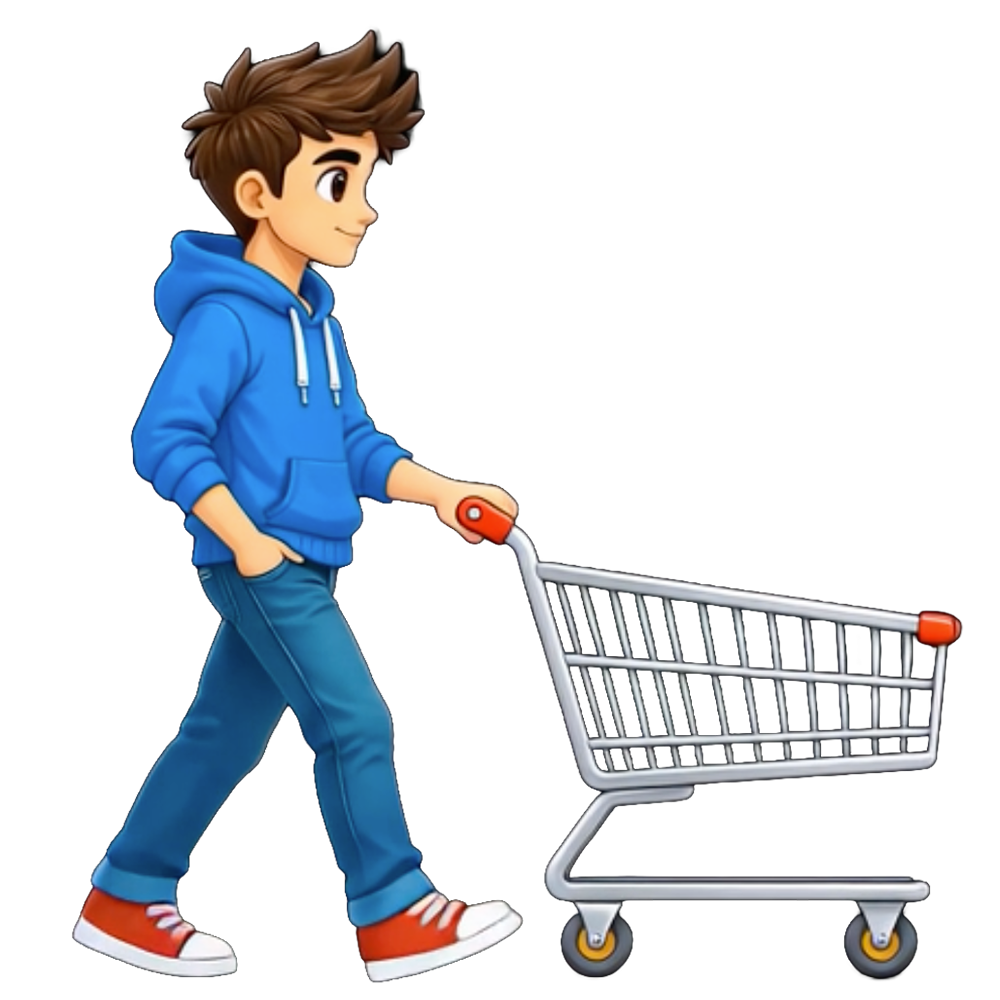
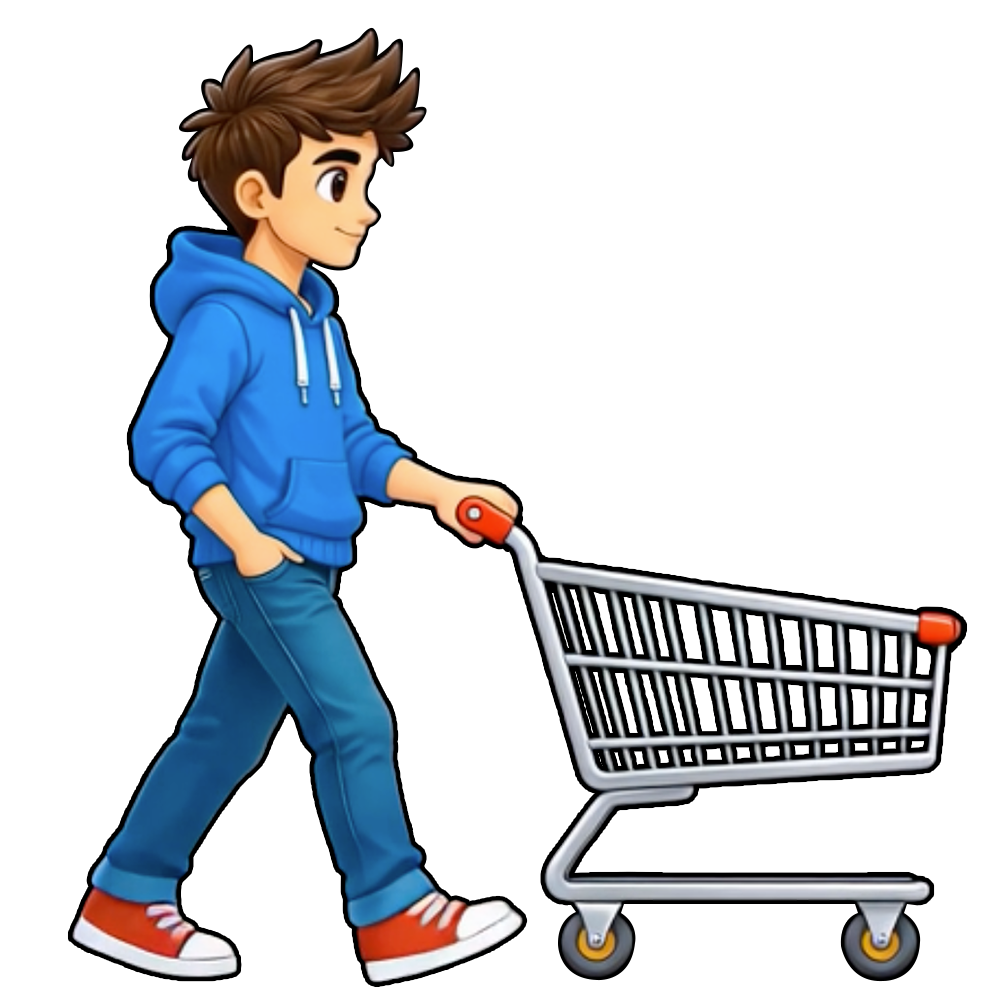
Update character assets and refine animation settings
- Replaced character PNG assets for improved visual quality.
- Adjusted walking animation settings in characterAssets.js to ensure smoother transitions by disabling frame skipping.
- Modified WalkingCharacter.js to fine-tune walking speed and animation frame rate for enhanced gameplay experience.

diff --git a/src/pages/game/prefabs/WalkingCharacter.js b/src/pages/game/prefabs/WalkingCharacter.js
@@ -11,8 +11,8 @@ import {
 const DISPLAY_H = 400;
 const CART_LAYOUT_BASE_H = 480;
 const CART_LAYOUT_SCALE = DISPLAY_H / CART_LAYOUT_BASE_H;
-const WALK_SPEED = 280;   // px / second
-const WALK_ANIM_FPS = 24; // uses all loaded PNG frames via Phaser anim
+const WALK_SPEED = 260;   // px / second
+const WALK_ANIM_FPS = 26;
 const FLOOR_Y = config.height - 142;
 
 const CART_X = 120 * CART_LAYOUT_SCALE;
@@ -22,14 +22,14 @@ const ICON_SIZE = 52;
 const MAX_ICONS = 8;
 
 const CART_PILE_SLOTS = [
-    { x: -34, y: -2,  s: 1.02, r: -14, z: 0 },
-    { x: 10,  y: -6,  s: 1.00, r: 10,  z: 1 },
-    { x: 38,  y: 0,   s: 1.04, r: -8,  z: 2 },
-    { x: -14, y: 12,  s: 1.06, r: 12,  z: 3 },
-    { x: 20,  y: 10,  s: 1.08, r: -6,  z: 4 },
-    { x: -32, y: 22,  s: 1.10, r: 8,   z: 5 },
-    { x: 4,   y: 24,  s: 1.12, r: -11, z: 6 },
-    { x: 34,  y: 20,  s: 1.08, r: 5,   z: 7 },
+    { x: -34, y: -2, s: 1.02, r: -14, z: 0 },
+    { x: 10, y: -6, s: 1.00, r: 10, z: 1 },
+    { x: 38, y: 0, s: 1.04, r: -8, z: 2 },
+    { x: -14, y: 12, s: 1.06, r: 12, z: 3 },
+    { x: 20, y: 10, s: 1.08, r: -6, z: 4 },
+    { x: -32, y: 22, s: 1.10, r: 8, z: 5 },
+    { x: 4, y: 24, s: 1.12, r: -11, z: 6 },
+    { x: 34, y: 20, s: 1.08, r: 5, z: 7 },
 ];
 
 const CART_FILL_ORDER = [4, 2, 6, 1, 5, 0, 3, 7];
@@ -218,10 +218,10 @@ export default class WalkingCharacter extends Phaser.GameObjects.Container {
         const mv = this._marketView;
         // Use a 1px tolerance so floating-point scroll values that are just
         // barely off the limit (e.g. -0.0003 instead of 0) still trigger the wall.
-        const atLeftWall  = !mv || mv.scrollX >= mv.scrollMaxX - 1;
+        const atLeftWall = !mv || mv.scrollX >= mv.scrollMaxX - 1;
         const atRightWall = !mv || mv.scrollX <= mv.scrollMinX + 1;
-        const effectiveLeft  = atLeftWall  ? SPRITE_HALF_W                 : this._marginLeft;
-        const effectiveRight = atRightWall ? config.width - SPRITE_HALF_W  : this._marginRight;
+        const effectiveLeft = atLeftWall ? SPRITE_HALF_W : this._marginLeft;
+        const effectiveRight = atRightWall ? config.width - SPRITE_HALF_W : this._marginRight;
 
         this.x = Phaser.Math.Clamp(this.x + dx, effectiveLeft, effectiveRight);
         const overflow = dx - (this.x - prevX);

diff --git a/src/pages/game/config/characterAssets.js b/src/pages/game/config/characterAssets.js
@@ -47,7 +47,7 @@ export function ensureCharacterWalkAnim (scene, frameRate = 24) {
         frames: walkFrames,
         frameRate,
         repeat: -1,
-        skipMissedFrames: true,
+        skipMissedFrames: false, // never jump frames; keeps the walk cycle smooth
     });
     return WALK_ANIM_KEY;
 }
